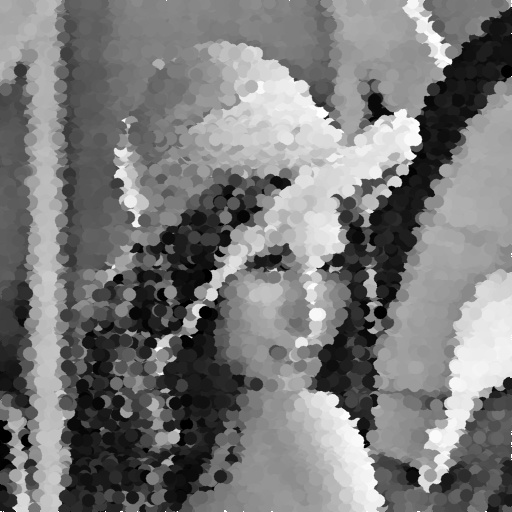
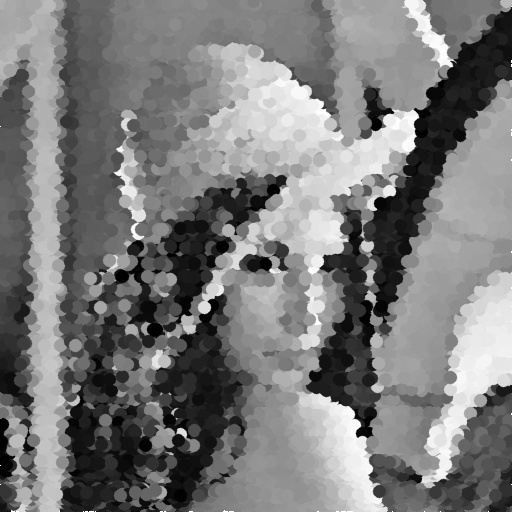
Alterado

diff --git a/cannypoints.cpp b/cannypoints.cpp
@@ -100,9 +100,10 @@ int main(int argc, char** argv){
   
   imshow("Image.jpg", image);
   imshow("Pontos.jpg", points);
-  //imshow("Cannypoints.jpg", cannypoints);
-  imwrite("pontos.jpg", points);
   waitKey();
+  
+  imwrite("pontos.jpg", points);
+  imwrite("cannypoints.jpg", cannypoints);
 
   return 0;
 }

diff --git a/index.md b/index.md
@@ -19,6 +19,8 @@
     - [Exercício 5.2 - tiltshiftvideo.cpp](#exercício-52---tiltshiftvideocpp)
   - [6 - Filtragem no domínio da frequência](#6---filtragem-no-domínio-da-frequência)
     - [Exercício 6.1 - filtrohomomorfico.cpp](#exercício-61---filtrohomomorficocpp)
+  - [7 - Detecção de bordas com o algoritmo de Canny](#7---detecção-de-bordas-com-o-algoritmo-de-canny)
+    - [Exercício 7.1 - cannypoints.cpp](#exercício-71---cannypointscpp)
   - [Jekyll Themes](#jekyll-themes)
   - [Support or Contact](#support-or-contact)
 
@@ -1186,7 +1188,127 @@ int main(int, char**) {
 }
 ```
 
+### 7 - Detecção de bordas com o algoritmo de Canny
 
+#### Exercício 7.1 - cannypoints.cpp
+
+Este exercício foi feito usando os programas *canny.cpp* e *pontilhismo.cpp*. Consiste em usar as bordas geradas pelo algoritmo de Canny para melhorar a imagem gerada pelo código pontilhista. Para isso foi usada a imagem pontilhista como base e em seguida, para cada coordenada correspondente à uma borda de Canny foi desenhado um círculo de raio menor para dar mais detalhe sem perder o efeito de pontilhismo. O resultado foi uma imagem com pontos grandes (raio 6) e pontos pequenos (raio 2), sendo os pontos pequenos correspondentes aos locais das bordas de Canny e com valor do pixel central da imagem original.
+
+A efeito obtido na imagem *lena.jpg* pode ser visto abaixo.
+
+Código [cannypoints.cpp](https://raw.githubusercontent.com/Albertotavaresdeoliveira/PDI-UFRN/gh-pages/cannypoints.cpp):
+
+```c++
+#include <iostream>
+#include <opencv2/opencv.hpp>
+#include <fstream>
+#include <iomanip>
+#include <vector>
+#include <algorithm>
+#include <numeric>
+#include <ctime>
+#include <cstdlib>
+
+using namespace std;
+using namespace cv;
+
+#define STEP 5
+#define JITTER 3
+#define RAIO 6
+#define RAIOCANNY 2
+
+int top_slider = 10;
+int top_slider_max = 200;
+
+int width, height, gray;
+
+char TrackbarName[50];
+
+Mat image, border, points, cannypoints;
+
+void on_trackbar_canny(int, void*){
+  Canny(image, border, top_slider, 3*top_slider);
+
+  points.copyTo(cannypoints);
+
+  for(int i = 0; i<height; i++){
+    for(int j = 0; j<width; j++){
+      if(border.at<uchar>(i, j) == 255){
+        gray = image.at<uchar>(i,j);
+        circle(cannypoints, cv::Point(j,i), RAIOCANNY, CV_RGB(gray,gray,gray), -1, LINE_AA);
+      }
+    }
+  }
+  imshow("canny", border);
+  imshow("Cannypoints.jpg", cannypoints);
+}
+
+int main(int argc, char** argv){
+  vector<int> yrange;
+  vector<int> xrange;
+
+  int x, y;
+
+  image = imread(argv[1],IMREAD_GRAYSCALE);
+
+  srand(time(0));
+
+  if(!image.data){
+	cout << "nao abriu" << argv[1] << endl;
+    cout << argv[0] << " imagem.jpg";
+    exit(0);
+  }
+
+  width=image.size().width;
+  height=image.size().height;
+
+  xrange.resize(height/STEP);
+  yrange.resize(width/STEP);
+
+  iota(xrange.begin(), xrange.end(), 0);
+  iota(yrange.begin(), yrange.end(), 0);
+
+  for(uint i=0; i<xrange.size(); i++){
+    xrange[i]= xrange[i]*STEP+STEP/2;
+  }
+
+  for(uint i=0; i<yrange.size(); i++){
+    yrange[i]= yrange[i]*STEP+STEP/2;
+  }
+
+  points = Mat(height, width, CV_8U, Scalar(255));
+
+  random_shuffle(xrange.begin(), xrange.end());
+
+  for(auto i : xrange){
+    random_shuffle(yrange.begin(), yrange.end());
+    for(auto j : yrange){
+      x = i+rand()%(2*JITTER)-JITTER+1;
+      y = j+rand()%(2*JITTER)-JITTER+1;
+      gray = image.at<uchar>(x,y);
+      circle(points, cv::Point(y,x), RAIO, CV_RGB(gray,gray,gray), -1, LINE_AA);
+    }
+  }
+
+  points.copyTo(cannypoints);
+
+  sprintf( TrackbarName, "Threshold inferior", top_slider_max );
+
+  namedWindow("canny",1);
+  createTrackbar( TrackbarName, "canny", &top_slider, top_slider_max, on_trackbar_canny );
+
+  on_trackbar_canny(top_slider, 0 );
+  
+  imshow("Image.jpg", image);
+  imshow("Pontos.jpg", points);
+  waitKey();
+  
+  imwrite("pontos.jpg", points);
+  imwrite("cannypoints.jpg", cannypoints);
+
+  return 0;
+}
+```
 
 For more details see [GitHub Flavored Markdown](https://guides.github.com/features/mastering-markdown/).
 
